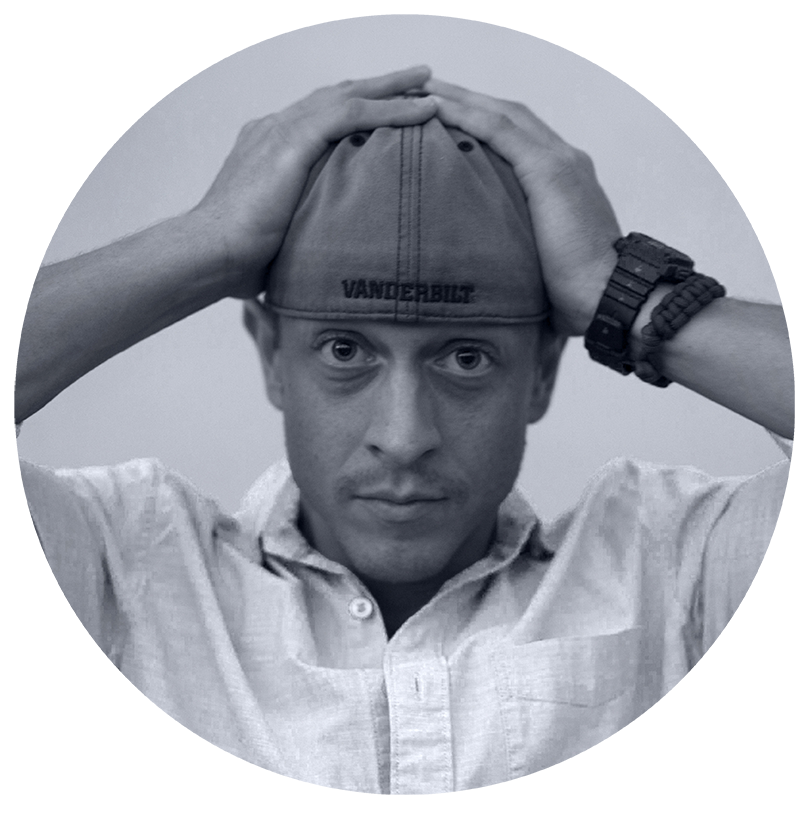
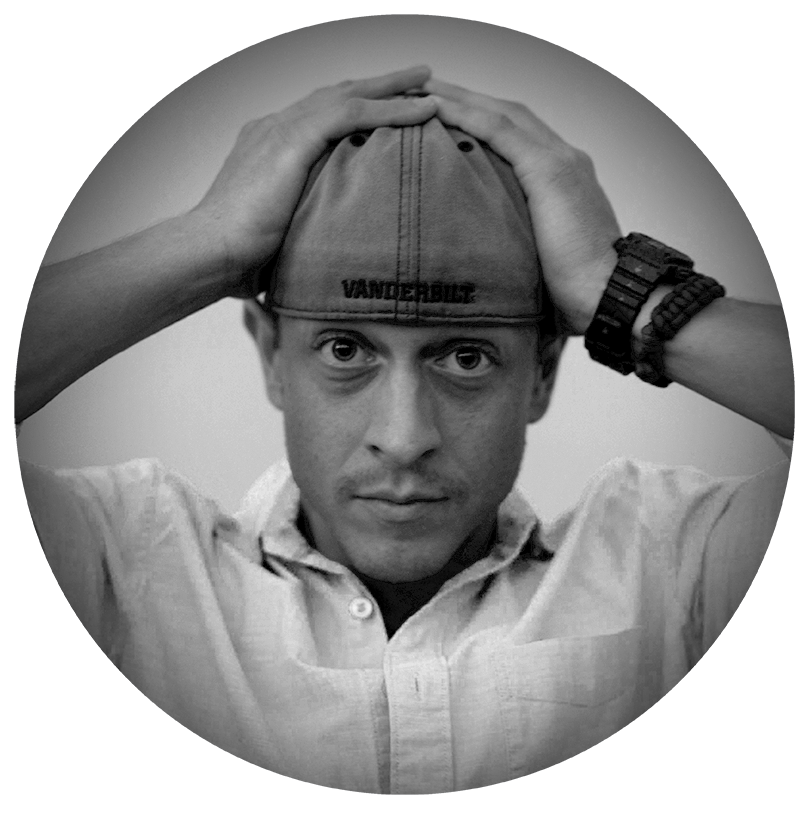
Added inner shadow to about-me-photo

diff --git a/my-app/src/Components/About.js b/my-app/src/Components/About.js
@@ -5,14 +5,13 @@ import TopNav from './TopNav';
 import Footer from './Footer';
 import './App.css';
 import Icons from './Icons';
-import JMC from './img/JMC.png';
 import Grid from './img/Grid.png';
 
 function About() {
   return (
     <div className="d-flex justify-content-center flex-column" style={{backgroundImage: `url(${Grid})`, backgroundSize: 'cover'}}>
       <TopNav />
-      <div className="my-5">
+      <div className="my-2">
         <div className="container p-5 text-light">
           <div className="row">
             <div className="col-md-8 p-4 d-flex align-items-center">
@@ -21,7 +20,7 @@ function About() {
                 <h1 className="about-header grey">CRAWFORD</h1>
                 <p className="about-subheader mb-0">GRAPHIC DESIGNER + WEB DEVELOPER</p>
                 <p className="about-subheader-2 mb-1">LEXINGTION, KY</p>
-                <p className="about-body">There isn't an aspect of art and design that doesn't draw my interest. I have always had a passion for art history and the evolution of visual communication.  My work as a designer and developer is a reflection of what and who I surround myself with. Collaborating with talented and motivated individuals is my life's passion, and a critical aspect of what I aim to accomplish professionally. I work in both print and digital media, utilizing holistic approaches in to deliver effective and sustainable messages and user experiences. My current focus is in web development and user experience design.</p>
+                <p className="about-body">There isn't an aspect of art and design that doesn't draw my interest. I have always had a passion for art history and the evolution of visual communication.  My work as a designer and developer is a reflection of what and who I surround myself with. Collaborating with talented and motivated individuals is my life's passion, and a critical aspect of what I aim to accomplish professionally. I work in both print and digital media, utilizing holistic approaches to deliver engaging and sustainable user experiences. My current focus is in web development and user experience design.</p>
                 {/* <div className="d-flex justify-content-start">
                   <button className="mt-5 ms-4 p-2 bg-dark text-light border border-secondary rounded">Resume</button>
                   <button className="mt-5 ms-4 p-2 bg-dark text-light border border-secondary rounded">Extended Resume</button>

diff --git a/my-app/src/Components/Home.js b/my-app/src/Components/Home.js
@@ -2,9 +2,6 @@ import 'bootstrap/dist/css/bootstrap.min.css';
 import TopNav from './TopNav';
 import Footer from './Footer';
 import './App.css';
-import HeroName from './img/HeroName.png';
-import ThreeDname from './img/3Dname.png';
-import ThreeDbackground from './img/ThreeDBackground.png';
 import Grid from './img/Grid.png';
 
 function Home() {
@@ -14,10 +11,10 @@ function Home() {
       <TopNav />
       <div className="container px-5 d-flex align-items-center justify-content-center vh-100">
         <div className="row d-flex justify-content-center">
-          <div className="col-12 d-flex flex-wrap justify-content-center">
+          <div className="col-12 d-flex flex-wrap justify-content-center pb-5 mb-5">
             {/* <img className="mx-5 mb-0" src={ThreeDbackground} style={{ maxWidth: "50%" }} alt="Logo" /> */}
             <p className="d-flex justify-content-center text-header text-light mb-0 pb-0" style={{ textShadow: "2px 2px 30px rgba(0,0,0,10)" }}>John-Michael Crawford</p>
-            <p className="d-flex justify-content-center text-second mt-0 pt-0" style={{ textShadow: "2px 2px 30px rgba(0,0,0,10)" }}>Graphic Designer & Web Developer</p>
+            <p className="d-flex justify-content-center text-second mt-0 pt-0 pb-5 mb-5" style={{ textShadow: "2px 2px 30px rgba(0,0,0,10)" }}>Graphic Designer & Web Developer</p>
           </div>
         </div>
       </div>

diff --git a/my-app/src/Components/App.css b/my-app/src/Components/App.css
@@ -244,8 +244,9 @@ html, body, #root {
     .about-header {
         font-family: 'Montserrat', sans-serif;
         font-weight: 700;
-        font-size: 40px;
+        font-size: 50px;
         text-align: left;
+        line-height: 40px;
     }
     .about-subheader {
         font-family: 'Montserrat', sans-serif;
@@ -305,6 +306,7 @@ html, body, #root {
         font-weight: 700;
         font-size: 40px;
         text-align: left;
+        line-height: 30px;
     }
     .about-subheader {
         font-family: 'Montserrat', sans-serif;
@@ -401,8 +403,8 @@ html, body, #root {
     .about-header {
         font-family: 'Montserrat', sans-serif;
         font-weight: 700;
-        font-size: 35px;
-        text-align: center;
+        text-align: left;
+        line-height: 30px;
     }
     .about-subheader {
         font-family: 'Montserrat', sans-serif;

diff --git a/my-app/src/Components/Blog.js b/my-app/src/Components/Blog.js
@@ -8,7 +8,7 @@ function Blog() {
   return (
     <div style={{backgroundImage: `url(${Grid})`, backgroundSize: 'cover'}}>
       <TopNav />
-      <div className="container-fluid d-flex flex-column justify-content-center align-items-center mt-5 pt-5">
+      <div className="container-fluid d-flex flex-column justify-content-center align-items-center">
           <div className="container text-light pb-0 mb-0">
             <div className="row d-flex justify-content-center pb-0 mb-0">
               <div className="col-12 pb-0 mb-0 d-flex justify-content-center mt-5">

diff --git a/my-app/src/Components/Icons.js b/my-app/src/Components/Icons.js
@@ -28,7 +28,7 @@ function Icons() {
     <div>
       <div className="container-fluid text-light d-flex justify-content-center">
         <div className="row">
-            <p className="text-secondary pb-0 mb-0 d-flex justify-content-center">Tools</p>
+            <p className="text-second pb-0 mb-0 d-flex justify-content-center">Tools</p>
           <div className="col d-flex flex-wrap justify-content-center">
             <img src={Photoshop} alt="Adobe Photoshop" className="icons"/>
             <img src={Illustrator} alt="Adobe Illustrator" className="icons"/>
